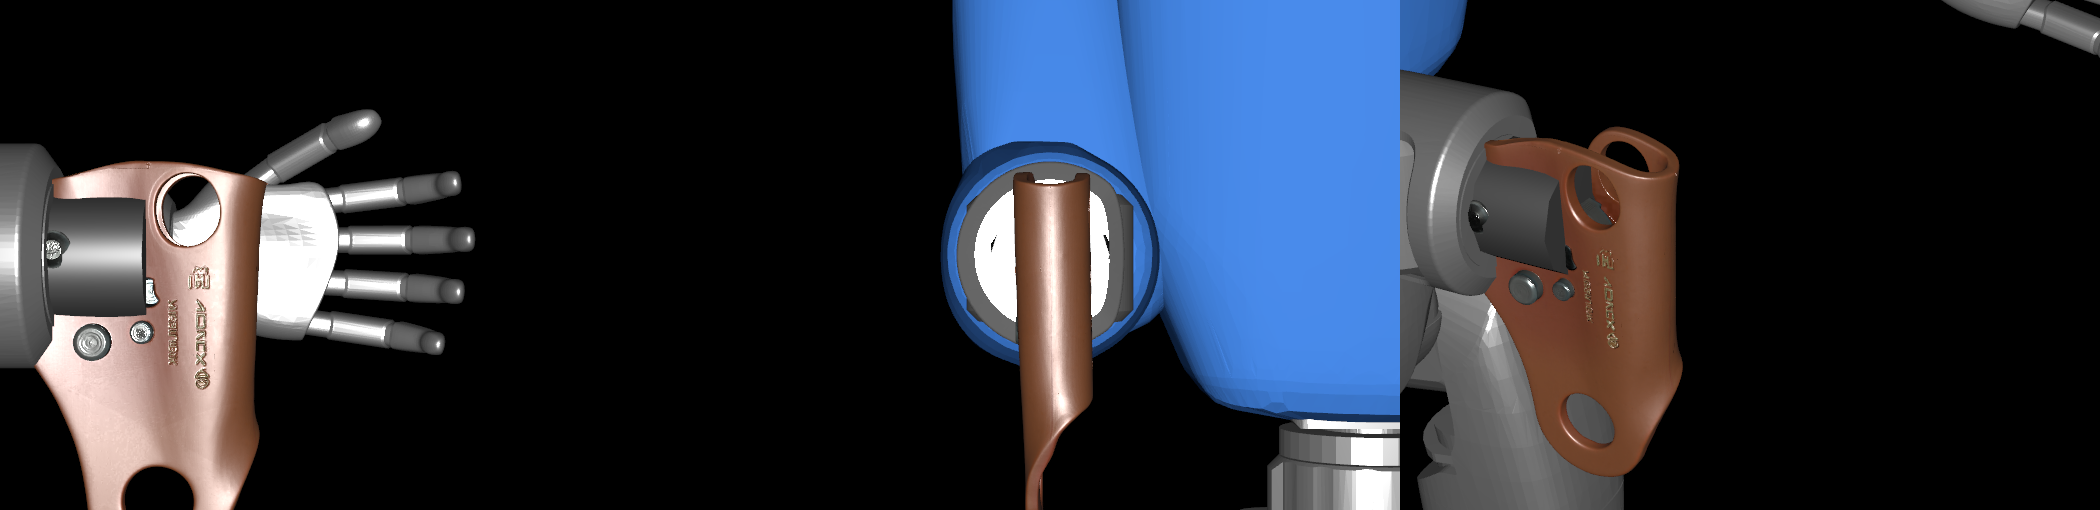
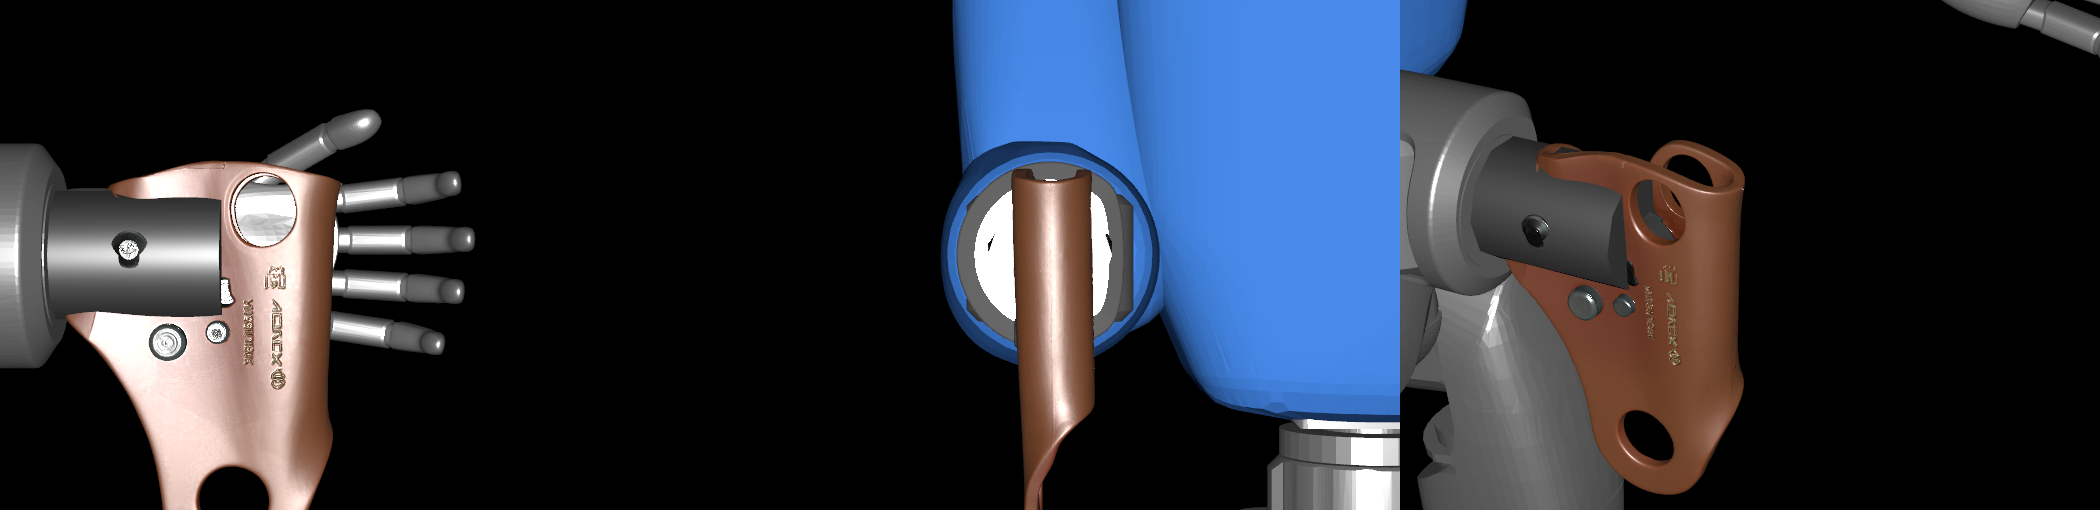
Effector 2 cm further from the wrist (x=0.08)
Claude-Session: https://claude.ai/code/session_01Kj5So1s4xrTsHeTeJU72py

diff --git a/assets/robots/g1/attach_tool.py b/assets/robots/g1/attach_tool.py
@@ -21,7 +21,7 @@ LINK = "/G1/right_wrist_yaw_link"
 #   tool Z (handle->head) -> wrist +Z   (head up)
 _R = Gf.Matrix3d(-1, 0, 0,   0, -1, 0,   0, 0, 1)   # 180 deg yaw about wrist Z
 HEAD_Z = (0.06, 0.11)                        # cam-mechanism span along the tool axis (110 mm tool, cam in the top half)
-TOOL_POS = Gf.Vec3d(0.06, 0.0, -(HEAD_Z[0] + HEAD_Z[1]) / 2)   # head on the joint, just past the wrist mesh (ends x=0.047)
+TOOL_POS = Gf.Vec3d(0.08, 0.0, -(HEAD_Z[0] + HEAD_Z[1]) / 2)   # device centre 2 cm further out (device is 73 mm wide in X -> back face at x~0.044)
 _qd = _R.ExtractRotation().GetQuat(); TOOL_ROT = Gf.Quatf(_qd.GetReal(), *_qd.GetImaginary())
 HAND_X_MIN = 0.08  # the rubber-hand paddle lives at x 0.087..0.132 in the wrist frame; wrist link mesh ends at 0.047
 
